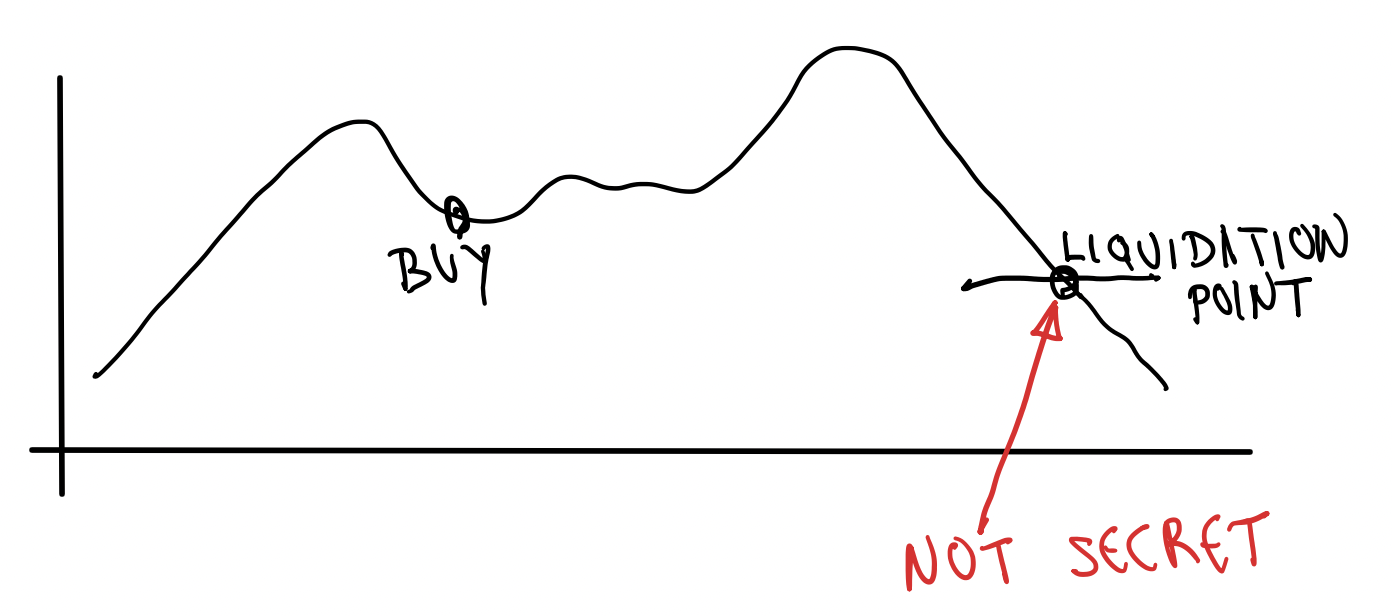
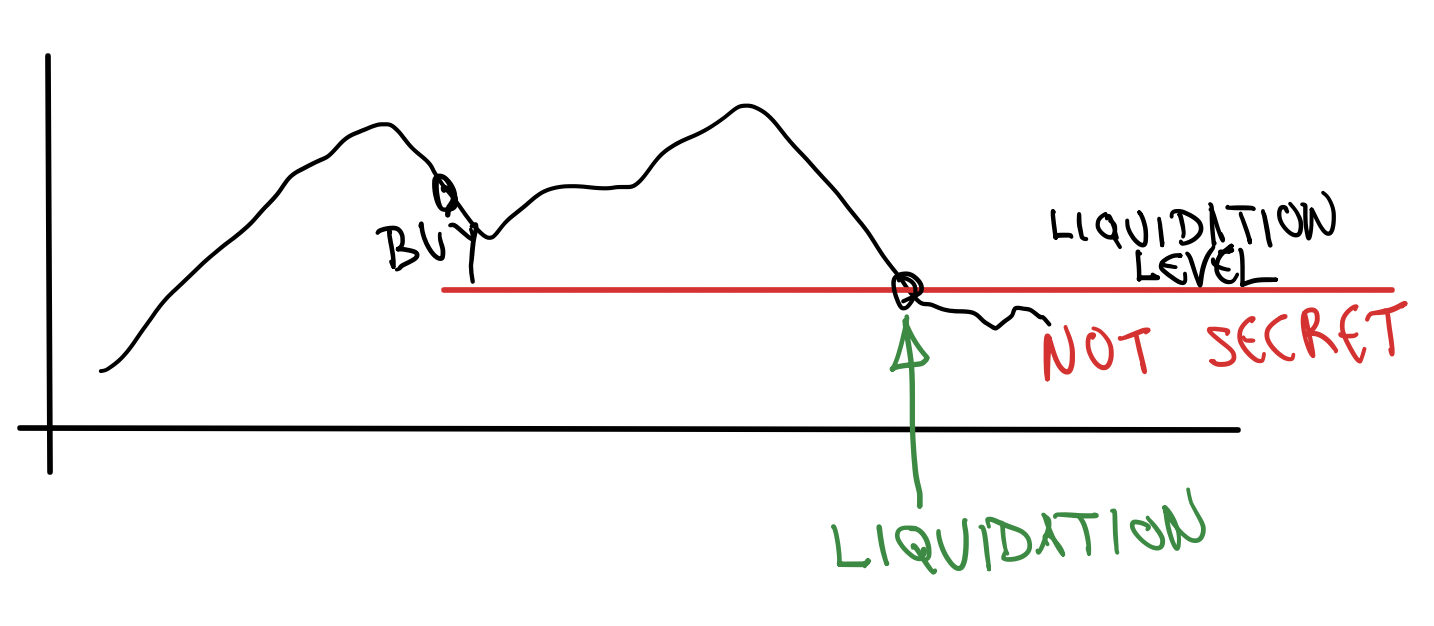
More illustrations

diff --git a/README.md b/README.md
@@ -10,11 +10,15 @@ This inversion—“liquidate by default, prove otherwise”—ensures that no a
 
 ## Introduction
 
-Let's not make a mistake: ***delinquent trading positions should be liquidated***. Yet, we should ***not allow anyone to induce liquidations*** via market manipulation, MEV or Flash Loans.
-
-The problem in on-chain trading is that the liquidation points are public and the attacker can use Spot Market Manipulation, MEV or Flash Loans to trigger liquidations:
+Let's not make a mistake: ***delinquent trading positions should be liquidated***:
 
 ![problem](./images/problem.png)
+
+Yet, we should ***not allow anyone to induce liquidations*** via market manipulation, MEV or Flash Loans.
+The problem in on-chain trading is that the liquidation points are public and the attacker can take advantage of this.
+
+![problem](./images/attack.png)
+
 
 In general on-chain Leveraged Trading systems would have two components:
 - Marketplace, such Order Book or Automated Market Maker (AMM). This allows
